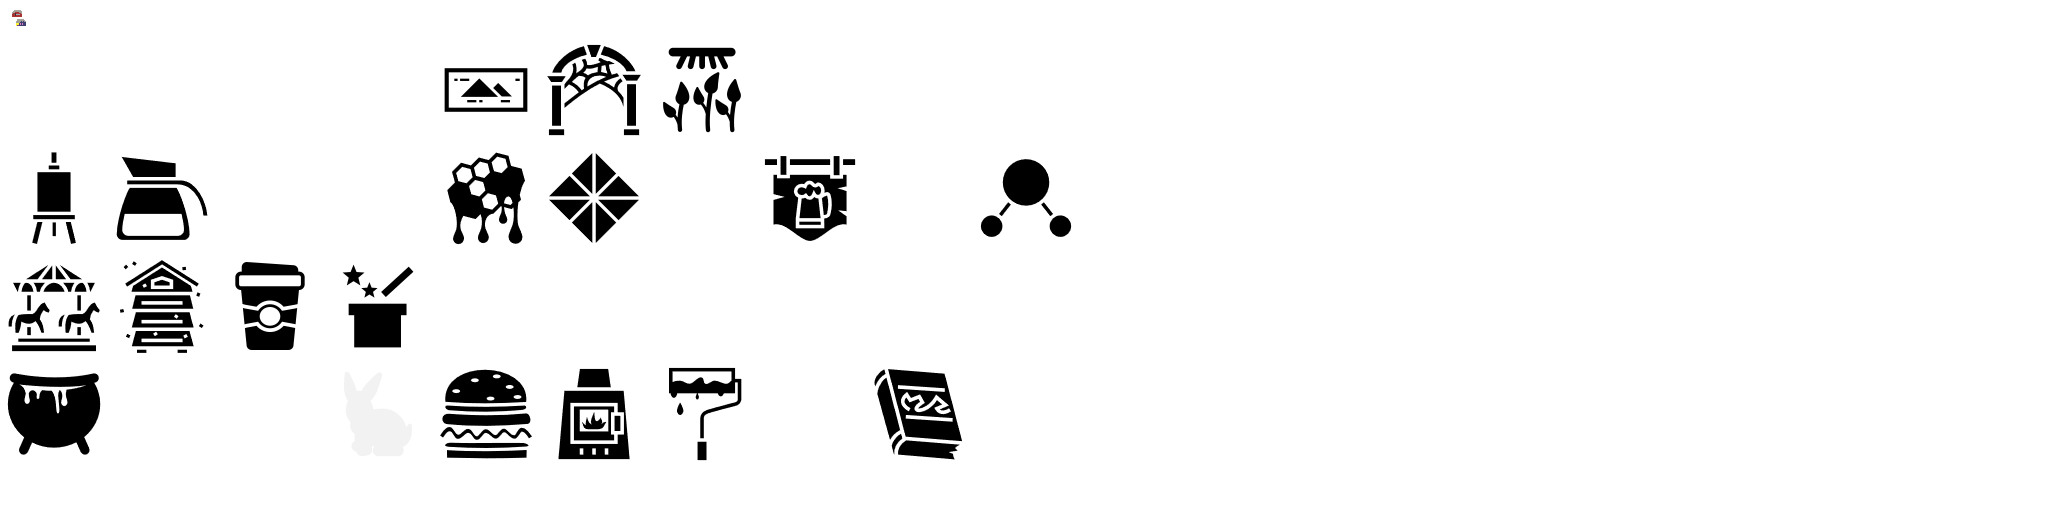
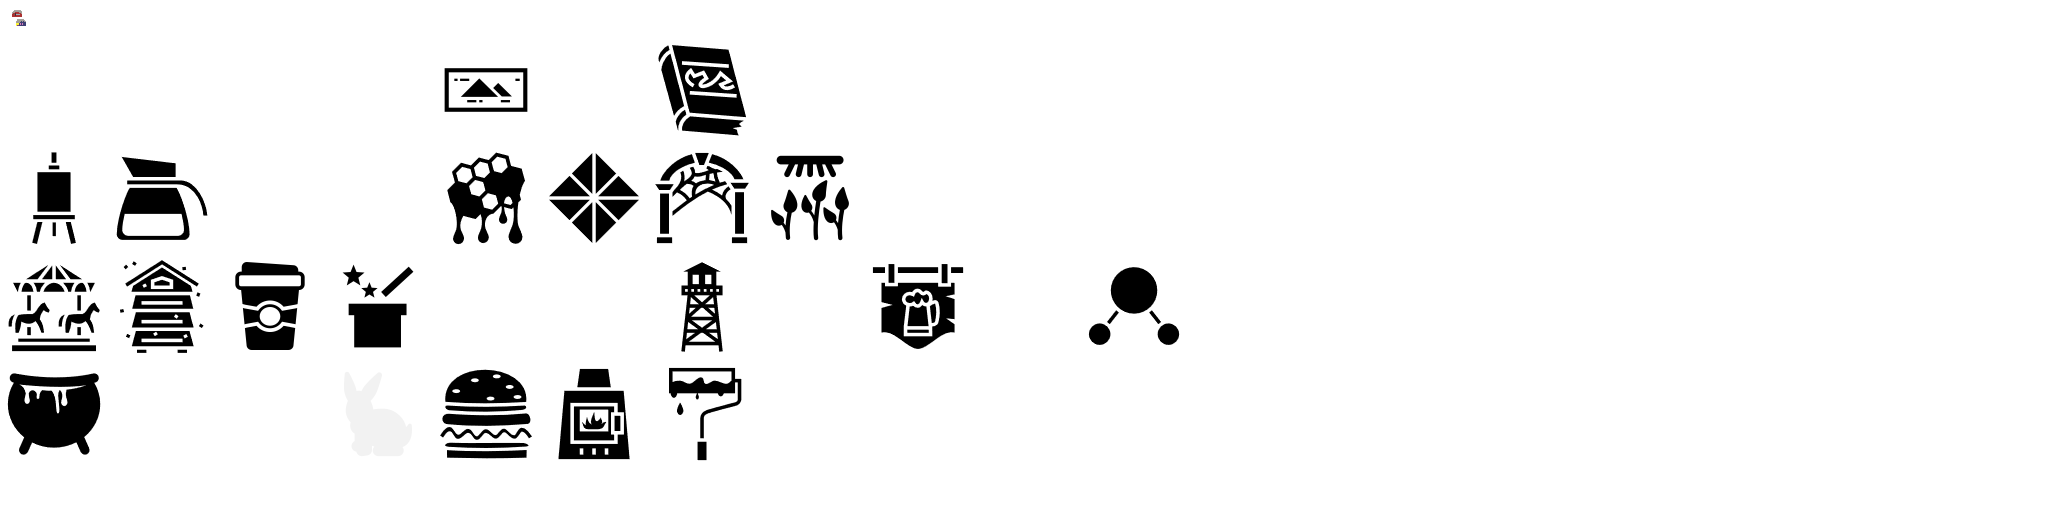
Swapped Synth Garden for Overseer Station

diff --git a/CREDITS.md b/CREDITS.md
@@ -39,7 +39,7 @@ Unless otherwise specified, all the following are from [Game-icons.net](https://
 - [Tavern sign](https://game-icons.net/1x1/delapouite/tavern-sign.html) by Delapouite for Tavern
 - [Beehive](https://game-icons.net/1x1/delapouite/beehive.html) by Delapouite for Beehive
 - [Book cover](https://game-icons.net/1x1/lorc/book-cover.html) by Lorc for Storyteller's Hut
-- [Indoor garden](https://www.svgrepo.com/svg/62492/indoor-garden) from Svgrepo (CC0) for Synthesized Garden
+- [Watchtower](https://game-icons.net/1x1/delapouite/watchtower.html) by Delapouite for Overseer Station
 
 ### Unit Promotion icons
 
@@ -71,3 +71,4 @@ Unless otherwise specified, all the following are from [Game-icons.net](https://
 - [Coffee](https://www.svgrepo.com/svg/70083/coffee) from Svgrepo (CC0) for Coffee Joint
 - [Rabbit](https://www.svgrepo.com/svg/113250/rabbit) from Svgrepo (CC0) for D'Latte
 - [Magician](https://www.svgrepo.com/svg/1512/magician) from Svgrepo (CC0) for Fancy House
+- [Indoor garden](https://www.svgrepo.com/svg/62492/indoor-garden) from Svgrepo (CC0) for Synthesized Garden
